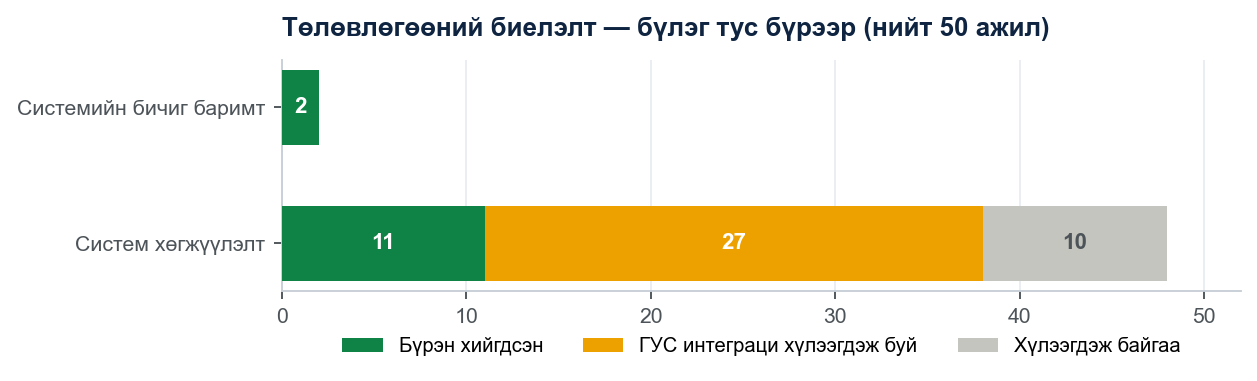
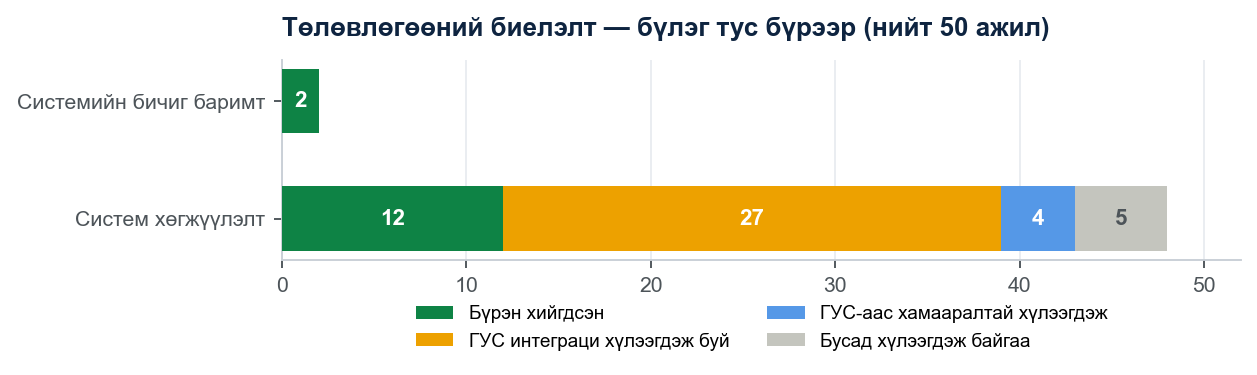
report update

diff --git a/public/reports/system-tailan.html b/public/reports/system-tailan.html
@@ -77,14 +77,15 @@
 <p class="tocline"><a href="#_toc132"><b>9. Чанар, тестийн хамралт</b></a></p>
 <p class="tocline"><a href="#_toc133"><b>10. Хөгжүүлэлтийн явцын үзүүлэлт</b></a></p>
 <p class="tocline"><a href="#_toc134"><b>11. Төлөвлөгөөний биелэлт</b></a></p>
-<p class="tocline"><a href="#_toc135">11.1 Бүрэн хийгдсэн ажлууд (13)</a></p>
+<p class="tocline"><a href="#_toc135">11.1 Бүрэн хийгдсэн ажлууд (14)</a></p>
 <p class="tocline"><a href="#_toc136">11.2 Тусгай бүлэг — ГУС-ийн холболтоор хийгдэх ажлууд (27)</a></p>
-<p class="tocline"><a href="#_toc137">11.3 Хүлээгдэж байгаа ажлууд (10)</a></p>
-<p class="tocline"><a href="#_toc138">11.4 Төлөвлөгөөт ажлын иж бүрдэлд ороогүй боловч хэрэгжсэн ажлууд</a></p>
-<p class="tocline"><a href="#_toc139"><b>12. Нэгдсэн дүгнэлт</b></a></p>
-<p class="tocline"><a href="#_toc140">12.1 Систем хийгдсэнээр гарсан үр дүн</a></p>
-<p class="tocline"><a href="#_toc141">12.2 Давуу талууд</a></p>
-<p class="tocline"><a href="#_toc142"><b>Хавсралт. Нэр томьёоны тайлбар</b></a></p>
+<p class="tocline"><a href="#_toc137">11.3 ГУС-ийн хөгжүүлэлтээс хамаарч хийгдэх боломжтой ажлууд (4)</a></p>
+<p class="tocline"><a href="#_toc138">11.4 Бусад хүлээгдэж байгаа ажлууд (5)</a></p>
+<p class="tocline"><a href="#_toc139">11.5 Төлөвлөгөөт ажлын иж бүрдэлд ороогүй боловч хэрэгжсэн ажлууд</a></p>
+<p class="tocline"><a href="#_toc140"><b>12. Нэгдсэн дүгнэлт</b></a></p>
+<p class="tocline"><a href="#_toc141">12.1 Систем хийгдсэнээр гарсан үр дүн</a></p>
+<p class="tocline"><a href="#_toc142">12.2 Давуу талууд</a></p>
+<p class="tocline"><a href="#_toc143"><b>Хавсралт. Нэр томьёоны тайлбар</b></a></p>
 <h2 id="_toc101">1. Ерөнхий тойм</h2>
 <p class="j">Систем нь дөрвөн үндсэн бүрэлдэхүүнээс тогтоно: хэрэглэгчийн харах вэб апп (frontend — Next.js 14), бизнесийн логикийг гүйцэтгэх сервер (backend — Go/Gin REST API), өгөгдөл хадгалах сан (PostgreSQL + газарзүйн PostGIS өргөтгөл) болон газрын зургийн үйлчилгээ (GeoServer). Энгийнээр хэлбэл: хэрэглэгч вэб хуудсаар ажиллаж, вэб хуудас нь серверээс мэдээлэл авч, сервер нь өгөгдлийн сангаас уншиж бичдэг гинжин холбоо юм. Гол тоон үзүүлэлтүүд:</p>
 <div class="tbl-scroll"><table><tr><th><b>Үзүүлэлт</b></th><th><b>Утга</b></th></tr><tr><td><b>REST API endpoint (үйлчилгээний цэг)</b></td><td>185</td></tr><tr><td><b>Өгөгдлийн сангийн хүснэгт (2 сан)</b></td><td>49</td></tr><tr><td><b>Хувилбарлагдсан migration (бүтцийн өөрчлөлт)</b></td><td>58</td></tr><tr><td><b>Frontend хуудас (route)</b></td><td>24</td></tr><tr><td><b>Нийт кодын мөр (Go + TS/TSX)</b></td><td>~55,400</td></tr><tr><td><b>Backend тест функц</b></td><td>220</td></tr></table></div>
@@ -285,11 +286,11 @@
 <h2 id="_toc134">11. Төлөвлөгөөний биелэлт</h2>
 <p class="j">Хөгжүүлэлтийн нарийвчилсан төлөвлөгөө (plan.xlsx, 2026.05–09)-ний бичиг баримт болон систем хөгжүүлэлтийн бүлгүүд нь задаргаа түвшний 50 ажлаас бүрдэнэ. Төлөв өнгөөр кодлогдсон: ногоон = бүрэн хийгдсэн; шар = хийгдсэн боловч Газрын удирдлагын системтэй (ГУС) холбогдох хөгжүүлэлт хүлээгдэж байгаа; будаагүй = хүлээгдэж байгаа.</p>
 <p class="j"><i>Тооллогын арга: бүлэг, дэд бүлгийн гарчиг мөрүүдийг ажлын тоонд оруулаагүй, зөвхөн задаргаа ажлуудыг тоолсон. «Лог файл үүсгэх» (2.4.4.6) ажлыг аудит логийн системийн хэрэгжилтээр хийгдсэнд тооцов.</i></p>
-<div class="tbl-scroll"><table><tr><th><b>Төлөв</b></th><th><b>Тоо</b></th><th><b>Хувь</b></th></tr><tr><td><b>Нийт төлөвлөгөөт ажил</b></td><td>50</td><td>100%</td></tr><tr><td><b>Бүрэн хийгдсэн</b></td><td>13</td><td>26%</td></tr><tr><td><b>Хийгдсэн — ГУС интеграци хүлээгдэж буй</b></td><td>27</td><td>54%</td></tr><tr><td><b>Хүлээгдэж байгаа</b></td><td>10</td><td>20%</td></tr></table></div>
+<div class="tbl-scroll"><table><tr><th><b>Төлөв</b></th><th><b>Тоо</b></th><th><b>Хувь</b></th></tr><tr><td><b>Нийт төлөвлөгөөт ажил</b></td><td>50</td><td>100%</td></tr><tr><td><b>Бүрэн хийгдсэн</b></td><td>14</td><td>28%</td></tr><tr><td><b>Хийгдсэн — ГУС интеграци хүлээгдэж буй</b></td><td>27</td><td>54%</td></tr><tr><td><b>ГУС-аас хамааралтай хүлээгдэж (дараа хийгдэх боломжтой)</b></td><td>4</td><td>8%</td></tr><tr><td><b>Бусад хүлээгдэж байгаа</b></td><td>5</td><td>10%</td></tr></table></div>
 <p style="text-align:center"><img class="shot" src="img/docx-12.png" alt=""></p>
 <p style="text-align:center"><i>График. Төлөвлөгөөний биелэлт — бүлэг, төлөв тус бүрээр</i></p>
-<p><b>Системийн талаас хэрэгжсэн: 40/50 ажил (80%).</b></p>
-<h3 id="_toc135">11.1 Бүрэн хийгдсэн ажлууд (13)</h3>
+<p><b>Системийн талаас хэрэгжсэн: 41/50 ажил (82%).</b></p>
+<h3 id="_toc135">11.1 Бүрэн хийгдсэн ажлууд (14)</h3>
 <ul>
 <li>Системийн бичиг баримт /архитектурын загвар/ ба техникийн тодорхойлолт (1.1, 1.2)</li>
 <li>Системийн template бэлдэх, Map server бэлдэх (2.1.1, 2.1.2)</li>
@@ -301,24 +302,28 @@
 <li>Нөхөх олговрын үнийн дүнгийн төлбөрийн гүйцэтгэл (2.4.4.5)</li>
 <li>Статистикийн хяналтын самбар (2.5.1), тайланг төрлөөр боловсруулах (2.5.2)</li>
 <li>Лог файл үүсгэх — аудит логийн системээр хэрэгжсэн (2.4.4.6)</li>
+<li>Газар чөлөөлсөн тухай акт үйлдэх — хэвлэх загварын (Эх хэвлэл) системээр хэрэгжсэн (2.4.4.4)</li>
 </ul>
 <h3 id="_toc136">11.2 Тусгай бүлэг — ГУС-ийн холболтоор хийгдэх ажлууд (27)</h3>
 <p class="j">Эдгээр ажлын системийн тал нь хийгдсэн бөгөөд ГУС-ээс мэдээлэл татах/солилцох холболт нээгдэхийг хүлээж байна. Ажил тус бүрд холбох мэдээллийг тодорхойлов:</p>
 <div class="tbl-scroll"><table><tr><th><b>Бүлэг</b></th><th><b>Ажил (дугаар)</b></th><th><b>Холбох мэдээлэл</b></th></tr><tr><td><b>А. Удирдлага,үндсэн бүртгэл</b></td><td>Хэрэглэгчийн бүртгэл, жагсаалт (2.2.1)</td><td>ГУС-ийн хэрэглэгчийн нэгдсэн бүртгэлээс нэр, албан тушаал, байгууллага, холбоо барих мэдээллийг татах</td></tr><tr><td>&nbsp;</td><td>Хэрэглэгчийн эрхийн бүртгэл (2.2.2)</td><td>Эрхийн түвшин, ролийн мэдээллийг татаж системийн эрхтэй уялдуулах</td></tr><tr><td>&nbsp;</td><td>Эрхийн тохиргоо (2.2.3)</td><td>Чиг үүргийн ангиллыг системийн 6 роль, зөвшөөрөлтэй харгалзуулах</td></tr><tr><td>&nbsp;</td><td>Ажилтны бүртгэл (2.3.1)</td><td>Албан хаагчийн мэдээлэл — хариуцагч оноох жагсаалтын эх сурвалж</td></tr><tr><td>&nbsp;</td><td>Ажилтны лавлахууд (2.3.2)</td><td>Албан тушаал, нэгж/хэлтсийн лавлахыг синхрончлох</td></tr><tr><td>&nbsp;</td><td>Хуулийн этгээдийн бүртгэл (2.3.3)</td><td>Регистр, нэр, хаяг — эзэмшигч, төлөөлөгчийг баталгаажуулах</td></tr><tr><td>&nbsp;</td><td>Үнэлгээний байгууллага (2.3.4)</td><td>Тусгай зөвшөөрөлтэй байгууллагын жагсаалт, лицензийн хугацаа</td></tr><tr><td><b>Б. Төлөвлөгөөнийдавхарга</b></td><td>Гэр хорооллын чөлөөлөлт (2.2.1.1)</td><td>Зөвшилцсөн давхаргаас ангиллын хил, талбай татаж чөлөөлөлт автоматаар үүсгэх</td></tr><tr><td>&nbsp;</td><td>Авто зам, шугам сүлжээ (2.2.1.2)</td><td>Мөн давхаргаас зам, трассын ангиллын хилийг татах</td></tr><tr><td>&nbsp;</td><td>Нийгмийн дэд бүтэц (2.2.1.3)</td><td>Сургууль, эмнэлэг зэрэг ангиллын хилийг татах</td></tr><tr><td><b>В. ГУС-ийнсистемүүд</b></td><td>ГЗБ, хот төлөвлөлтийн цахим (2.3.1)</td><td>Бүсчлэл, хориглолт-хязгаарлалт — талбарын өөрчлөлтийг ЕТ-тэй хянах</td></tr><tr><td>&nbsp;</td><td>Газрын кадастр (2.3.2)</td><td>Хил, эзэмшигч, эрхийн төрөл, гэрчилгээ — «Мэдээлэл дуудах» синхрончлолын эх сурвалж</td></tr><tr><td>&nbsp;</td><td>Газрын үнэлгээ (2.3.3)</td><td>Үнэлгээний бүс, суурь үнэ, дуудлагын итгэлцүүр — олговрын тооцооллын суурь</td></tr><tr><td>&nbsp;</td><td>Хот байгуулалтын кадастр (2.3.4)</td><td>Барилга байгууламжийн бүртгэл, хил, зориулалт</td></tr><tr><td>&nbsp;</td><td>Газрын мониторинг (2.3.5)</td><td>Газрын төлөв байдал, ашиглалтын хяналтын дүн</td></tr><tr><td><b>Г. Кадастрындавхцал</b></td><td>Зөрчлийн давхарга үүсгэх (2.4.1.1)</td><td>Кадастрын зургийг чөлөөлөлтийн хилтэй харьцуулж зөрчилтэй талбарыг зурагт харуулах</td></tr><tr><td>&nbsp;</td><td>Зөрчлийг системд холбох (2.4.1.2)</td><td>Зөрчил бүрийг нэгж талбарын дэлгэрэнгүйтэй холбох</td></tr><tr><td>&nbsp;</td><td>Давхцал шалгах (2.9.1)</td><td>Кадастрын API-аас хил татаж системийн PostGIS тооцоололтой тулгах</td></tr><tr><td><b>Д. Эрх,захирамж</b></td><td>Чиг үүргээр эрх тохируулах (2.4.3.1)</td><td>ГУС-ийн чиг үүргээс системийн роль/зөвшөөрөлд автоматаар буулгах</td></tr><tr><td>&nbsp;</td><td>Захирамжийн төсөл (2.4.4.3)</td><td>Талбар, эзэмшигч, олговрын дүнг загварт бөглөж захирамжийн бүртгэлтэй уях</td></tr><tr><td><b>Е. Дундынмэдээллийн сан</b></td><td>УБЕГ (2.8.1)</td><td>Регистрээр үл хөдлөхийн гэрчилгээ, өмчлөл, барьцааны лавлагаа</td></tr><tr><td>&nbsp;</td><td>Татварын ерөнхий газар (2.8.2)</td><td>Татварын өр, төлөлтийн лавлагаа — олговор олгохын өмнөх шалгалт</td></tr><tr><td>&nbsp;</td><td>ШШГЕГ (2.8.3)</td><td>Шүүхийн маргаан, эрх түдгэлзүүлэлтийн лавлагаа</td></tr><tr><td>&nbsp;</td><td>Үнийн мэдээний сан (2.8.4)</td><td>Батлагдсан олговруудаас үнийн сан бүрдүүлж ГУС-т лавлагаа болгон өгөх</td></tr><tr><td>&nbsp;</td><td>E-Mongolia (2.8.5)</td><td>Иргэнд мэдэгдэл хүргүүлж, НЭЗ судалгааны хариуг хүлээн авах</td></tr><tr><td>&nbsp;</td><td>Динамик давхарга (2.8.6)</td><td>ГУС-ийн каталогоос давхаргыг кодгүйгээр зурагт нэмэх</td></tr><tr><td><b>Ж. Бусад</b></td><td>Бусад системд өгөгдөл өгөх (2.9.2)</td><td>Чөлөөлөлт, талбар, олговрын мэдээллийг REST/WFS-ээр гаргах</td></tr></table></div>
-<h3 id="_toc137">11.3 Хүлээгдэж байгаа ажлууд (10)</h3>
+<h3 id="_toc137">11.3 ГУС-ийн хөгжүүлэлтээс хамаарч хийгдэх боломжтой ажлууд (4)</h3>
+<p class="j">Эдгээр ажлыг цахимаар хэрэгжүүлэхэд иргэдэд зориулсан цахим хүргэлтийн суваг (E-Mongolia, ГУС-ийн 2.8.5 ажил) шаардлагатай тул ГУС-ийн холболт нээгдсэний дараа хэрэгжих боломжтой:</p>
 <ul>
-<li>Зураг төслийн түүхэн өөрчлөлтийг харуулах (2.2.2.2)</li>
 <li>НЭЗ судалгааг цахимаар авч тоон мэдээлэл үүсгэх (2.4.2.1)</li>
 <li>Цахим хэлбэрээр мэдэгдэх хуудас хүргүүлэх (2.4.2.2)</li>
 <li>Албан бичиг хүргүүлэх (2.4.2.3)</li>
-<li>Тооцооллын журам, аргачлал, стандарт, үнийн мэдээний бүртгэл (2.4.3.2)</li>
-<li>Газар чөлөөлөх гэрээг цахим системээр хэвлэх (2.4.4.2)</li>
-<li>Газар чөлөөлсөн тухай акт үйлдэх (2.4.4.4)</li>
-<li>Агаар сансрын зурган мэдээллийг тогтмол шинэчлэх (2.6.1)</li>
-<li>Дроноор авсан мэдээллийг мэдээллийн санд оруулах (2.6.2)</li>
 <li>2010–2025 оны чөлөөлөгдсөн талбарын мэдээллийг нөхөж оруулах (2.7.1)</li>
 </ul>
-<h3 id="_toc138">11.4 Төлөвлөгөөт ажлын иж бүрдэлд ороогүй боловч хэрэгжсэн ажлууд</h3>
+<h3 id="_toc138">11.4 Бусад хүлээгдэж байгаа ажлууд (5)</h3>
+<ul>
+<li>Зураг төслийн түүхэн өөрчлөлтийг харуулах (2.2.2.2)</li>
+<li>Тооцооллын журам, аргачлал, стандарт, үнийн мэдээний бүртгэл (2.4.3.2)</li>
+<li>Газар чөлөөлөх гэрээг цахим системээр хэвлэх (2.4.4.2)</li>
+<li>Агаар сансрын зурган мэдээллийг тогтмол шинэчлэх (2.6.1)</li>
+<li>Дроноор авсан мэдээллийг мэдээллийн санд оруулах (2.6.2)</li>
+</ul>
+<h3 id="_toc139">11.5 Төлөвлөгөөт ажлын иж бүрдэлд ороогүй боловч хэрэгжсэн ажлууд</h3>
 <ul>
 <li><b>Excel-ээс үнэлгээ импортлох</b> — хөтөч дотор задлан шинжилж, SHA-256 хэшээр давхардлаас хамгаалдаг</li>
 <li><b>Мэргэжлийн байгууллагын тусгаарлагдсан портал</b> — гадны байгууллага зөвхөн өөрт оноогдсон объект дээр ажиллах 43 endpoint орчин</li>
@@ -326,9 +331,9 @@
 <li><b>Аюулгүй байдлын өргөтгөлүүд</b> — token хүчингүйжүүлэлт, session epoch, объект түвшний 4 давхар хамгаалалт</li>
 <li><b>Бодит цагийн мэдэгдлийн систем</b> — төлөв өөрчлөгдөх бүрд холбогдох хэрэглэгчдэд SSE-ээр шууд мэдэгддэг (7.12)</li>
 </ul>
-<div class="tbl-scroll"><table><tr><th><b>ҮР ДҮН</b></th><th><b>ДАВУУ ТАЛ</b></th><th><b>НЭМЭГДЭХ БОЛОМЖ</b></th></tr><tr><td>50 ажлын 40 нь (80%) системийн талаас хэрэгжсэн; төлөвлөгөөнөөс гадуур 5 томоохон боломж нэмэгдсэн (аудит лог нь 2.4.4.6-ийн хэрэгжилт)</td><td>Үлдэгдлийн дийлэнх нь гадаад хамааралтай — системийн суурь бэлэн</td><td>ГУС-ийн API нээгдмэгц 27 ажил богино хугацаанд хаагдана; үлдэгдэл 11 ажлыг дараагийн шатанд төлөвлөх</td></tr></table></div>
-<h2 id="_toc139">12. Нэгдсэн дүгнэлт</h2>
-<h3 id="_toc140">12.1 Систем хийгдсэнээр гарсан үр дүн</h3>
+<div class="tbl-scroll"><table><tr><th><b>ҮР ДҮН</b></th><th><b>ДАВУУ ТАЛ</b></th><th><b>НЭМЭГДЭХ БОЛОМЖ</b></th></tr><tr><td>50 ажлын 41 нь (82%) системийн талаас хэрэгжсэн; төлөвлөгөөнөөс гадуур 5 томоохон боломж нэмэгдсэн (аудит лог нь 2.4.4.6, акт нь 2.4.4.4-ийн хэрэгжилт)</td><td>Үлдэгдлийн 4 нь ГУС-ийн E-Mongolia холболтоос хамааралтай; бусад 5 нь бие даасан</td><td>ГУС-ийн API нээгдмэгц 27+4 ажил богино хугацаанд хаагдана; бие даасан 5 ажлыг дараагийн шатанд төлөвлөх</td></tr></table></div>
+<h2 id="_toc140">12. Нэгдсэн дүгнэлт</h2>
+<h3 id="_toc141">12.1 Систем хийгдсэнээр гарсан үр дүн</h3>
 <ul>
 <li>Бүх үе шат цаасан бус, нэгдсэн цахим урсгалд шилжсэн</li>
 <li>3 бие даасан үнэлгээ зэрэгцээ явагдаж, workflow-оор баталгааждаг</li>
@@ -336,7 +341,7 @@
 <li>Гадны байгууллагууд тусгаарлагдсан порталтай</li>
 <li>9 төрлийн албан баримт, Excel тайлан автоматаар үүсдэг</li>
 </ul>
-<h3 id="_toc141">12.2 Давуу талууд</h3>
+<h3 id="_toc142">12.2 Давуу талууд</h3>
 <ul>
 <li><b>Цэвэр давхаргажилт</b> — өргөтгөлд тэсвэртэй, тестлэгдэхүйц бүтэц</li>
 <li><b>Гүн хамгаалалт</b> — 4 давхар эрхийн шалгалт</li>
@@ -344,7 +349,7 @@
 <li><b>Бүрэн аудитын мөр</b> — өөрчлөлт бүр түүхтэй</li>
 <li><b>Нээлттэй эхийн стек</b> — лицензийн зардалгүй</li>
 </ul>
-<h2 id="_toc142">Хавсралт. Нэр томьёоны тайлбар</h2>
+<h2 id="_toc143">Хавсралт. Нэр томьёоны тайлбар</h2>
 <p>Тайланд ашигласан мэргэжлийн нэр томьёоны энгийн тайлбар:</p>
 <div class="tbl-scroll"><table><tr><th><b>Нэр томьёо</b></th><th><b>Энгийн тайлбар</b></th></tr><tr><td><b>Frontend / Backend</b></td><td>Frontend — хэрэглэгчийн хөтөч дээр харагдах вэб хуудаснууд; Backend — ард нь ажиллаж, өгөгдөл боловсруулж хадгалдаг сервер програм</td></tr><tr><td><b>API, endpoint</b></td><td>Програмууд хоорондоо мэдээлэл солилцох гэрээт «цонх». Endpoint нь тухайн нэг үйлчилгээний хаяг (жишээ: талбарын жагсаалт авах хаяг)</td></tr><tr><td><b>REST</b></td><td>API зохион байгуулах түгээмэл стандарт — унших/нэмэх/засах/устгах үйлдлүүд тус тусын хаягтай байдаг</td></tr><tr><td><b>Өгөгдлийн сан (PostgreSQL)</b></td><td>Бүх мэдээллийг хүснэгт хэлбэрээр найдвартай хадгалдаг сан</td></tr><tr><td><b>PostGIS</b></td><td>Өгөгдлийн санд газарзүйн хэлбэр (талбарын хил г.м.) хадгалж, талбай, давхцал зэргийг тооцох боломж олгодог өргөтгөл</td></tr><tr><td><b>GeoServer, WMS/WFS</b></td><td>Газрын зургийн давхаргуудыг вэбээр түгээдэг сервер; WMS — зураг хэлбэрээр, WFS — өгөгдөл хэлбэрээр өгдөг стандартууд</td></tr><tr><td><b>Migration</b></td><td>Өгөгдлийн сангийн бүтцийн өөрчлөлт бүрийг дугаарлаж хадгалсан «алхам» — шинэ орчинд сан ямар ч үед мөр дараалан ижил бүтэцтэй босдог</td></tr><tr><td><b>JWT, token</b></td><td>Нэвтэрсэн хэрэглэгчийг таниулах цахим «үнэмлэх» — хүсэлт бүрд дагалдаж, хугацаа дуусахад шинэчлэгдэнэ</td></tr><tr><td><b>bcrypt, SHA-256</b></td><td>Нууц үг болон файлыг математик аргаар «хурууны хээ» болгох аргууд — нууц үг ил хадгалагдахгүй, файлын давхардал илэрдэг</td></tr><tr><td><b>RBAC, permission</b></td><td>Ролид суурилсан эрхийн удирдлага — хэрэглэгч бүр ролийнхоо хүрээнд л үйлдэл хийж чадна (жишээ: land:update = чөлөөлөлт засах эрх)</td></tr><tr><td><b>Workflow</b></td><td>Ажлын урсгал — аль төлөвөөс аль төлөв рүү, ямар нөхцөлтэйгөөр шилжиж болохын урьдчилан тогтоосон дүрэм</td></tr><tr><td><b>SSE (Server-Sent Events)</b></td><td>Сервер хөтөч рүү мэдээллийг хүсэлт хүлээлгүйгээр өөрөө «түлхэж» илгээдэг холболт — мэдэгдэл бодит цагт ирэх үндэс</td></tr><tr><td><b>Аудит лог</b></td><td>Хэн, хэзээ, хаанаас (IP), юу өөрчилснийг бүртгэдэг хөндөгдөшгүй тэмдэглэл — хяналт шалгалтын эх сурвалж</td></tr><tr><td><b>Shapefile, WKT</b></td><td>Газарзүйн хилийн мэдээллийг хадгалах түгээмэл файлын форматууд</td></tr><tr><td><b>ERD</b></td><td>Өгөгдлийн сангийн хүснэгтүүд ба тэдгээрийн холбоог харуулсан бүтцийн зураг</td></tr><tr><td><b>Docker</b></td><td>Програмыг орчноос нь хамааралгүй, нэг командаар асаадаг «сав» технологи</td></tr><tr><td><b>Clean Architecture</b></td><td>Кодыг үе давхаргаар (хүлээн авах – боловсруулах – хадгалах) тусгаарлан зохион байгуулах арга — засвар, өргөтгөлд тэсвэртэй</td></tr><tr><td><b>Swagger</b></td><td>API-ийн бүх үйлчилгээний цэгийг жагсааж, туршиж үзэх боломжтой автомат баримтжуулалт</td></tr><tr><td><b>CQL шүүлт</b></td><td>Газрын зургийн давхаргаас нөхцөлөөр (он, чөлөөлөлт г.м.) шүүж харуулах хэллэг</td></tr><tr><td><b>Cache (кэш)</b></td><td>Олон дахин уншигддаг мэдээллийг түр санахад хадгалж хурдасгах арга</td></tr></table></div>
 <p class="j"><i>Энэхүү тайланг government-frontend болон government repo-гийн эх кодын шинжилгээнд үндэслэн үүсгэв. Тоон үзүүлэлтүүд нь эх кодоос шууд тоологдсон болно.</i></p>

diff --git a/public/reports/tovch-tailan.html b/public/reports/tovch-tailan.html
@@ -395,25 +395,27 @@
   <div class="ch-head"><span class="ch-num">12</span><h2>Төлөвлөгөөний биелэлт</h2></div>
   <p class="sub">Хөгжүүлэлтийн нарийвчилсан төлөвлөгөөний задаргаа түвшний 50 ажил (гарчиг мөрүүд тооцоогүй)</p>
   <div class="big80">
-    <div class="n">80%</div>
-    <p><b style="color:var(--ink)">50 ажлын 40 нь системийн талаас хэрэгжсэн.</b><br>
-    13 бүрэн дууссан + 27 нь системд бэлэн боловч Газрын удирдлагын системийн (ГУС) холболт нээгдэхийг хүлээж байна.</p>
+    <div class="n">82%</div>
+    <p><b style="color:var(--ink)">50 ажлын 41 нь системийн талаас хэрэгжсэн.</b><br>
+    14 бүрэн дууссан + 27 нь системд бэлэн боловч Газрын удирдлагын системийн (ГУС) холболт нээгдэхийг хүлээж байна.</p>
   </div>
-  <div class="stats">
-    <div class="stat" style="border-top-color:#3fa53f"><div class="v" style="color:#4ade80">13</div><div class="l">Бүрэн хийгдсэн (26%)</div></div>
+  <div class="stats s4">
+    <div class="stat" style="border-top-color:#3fa53f"><div class="v" style="color:#4ade80">14</div><div class="l">Бүрэн хийгдсэн (28%)</div></div>
     <div class="stat" style="border-top-color:#eda100"><div class="v" style="color:#eda100">27</div><div class="l">ГУС холболт хүлээж буй (54%)</div></div>
-    <div class="stat" style="border-top-color:#6b6c66"><div class="v" style="color:#a9aaa3">10</div><div class="l">Хүлээгдэж байгаа (20%)</div></div>
+    <div class="stat" style="border-top-color:#5598e7"><div class="v" style="color:#5598e7">4</div><div class="l">ГУС-аас хамааралтай хүлээгдэж (8%)</div></div>
+    <div class="stat" style="border-top-color:#6b6c66"><div class="v" style="color:#a9aaa3">5</div><div class="l">Бусад хүлээгдэж байгаа (10%)</div></div>
   </div>
   <div class="card chart">
-    <div class="legend"><span><span class="sw" style="background:#3fa53f"></span>Бүрэн</span><span><span class="sw" style="background:#eda100"></span>ГУС хүлээгдэж</span><span><span class="sw" style="background:#6b6c66"></span>Хүлээгдэж</span></div>
+    <div class="legend"><span><span class="sw" style="background:#3fa53f"></span>Бүрэн</span><span><span class="sw" style="background:#eda100"></span>ГУС хүлээгдэж</span><span><span class="sw" style="background:#5598e7"></span>ГУС хамааралтай хүлээгдэж</span><span><span class="sw" style="background:#6b6c66"></span>Бусад хүлээгдэж</span></div>
     <svg viewBox="0 0 520 64">
       <text x="126" y="18" text-anchor="end" font-size="9.5" fill="#c3c2b7">Бичиг баримт</text>
       <rect x="134" y="7" width="15" height="14" rx="3" fill="#3fa53f"/><text x="156" y="18" font-size="9" font-weight="700" fill="#f2f2ef">2 / 2</text>
       <text x="126" y="48" text-anchor="end" font-size="9.5" fill="#c3c2b7">Систем хөгжүүлэлт</text>
-      <rect x="134" y="37" width="80" height="14" rx="3" fill="#3fa53f"/><text x="174" y="48" text-anchor="middle" font-size="9" font-weight="700" fill="#fff">11</text>
-      <rect x="216" y="37" width="196" height="14" rx="3" fill="#eda100"/><text x="314" y="48" text-anchor="middle" font-size="9" font-weight="700" fill="#1a1b1a">27</text>
-      <rect x="414" y="37" width="72" height="14" rx="3" fill="#6b6c66"/><text x="450" y="48" text-anchor="middle" font-size="9" font-weight="700" fill="#f2f2ef">10</text>
-      <text x="492" y="48" font-size="9.5" font-weight="700" fill="#f2f2ef">48</text>
+      <rect x="134" y="37" width="87" height="14" rx="3" fill="#3fa53f"/><text x="178" y="48" text-anchor="middle" font-size="9" font-weight="700" fill="#fff">12</text>
+      <rect x="223" y="37" width="196" height="14" rx="3" fill="#eda100"/><text x="321" y="48" text-anchor="middle" font-size="9" font-weight="700" fill="#1a1b1a">27</text>
+      <rect x="421" y="37" width="29" height="14" rx="3" fill="#5598e7"/><text x="436" y="48" text-anchor="middle" font-size="9" font-weight="700" fill="#fff">4</text>
+      <rect x="452" y="37" width="36" height="14" rx="3" fill="#6b6c66"/><text x="470" y="48" text-anchor="middle" font-size="9" font-weight="700" fill="#f2f2ef">5</text>
+      <text x="500" y="48" font-size="9.5" font-weight="700" fill="#f2f2ef">48</text>
     </svg>
   </div>
 
@@ -432,12 +434,15 @@
   мэдээлэл өгөх «цонх» нээгдэхийг хүлээж байна. Холболт нээгдмэгц богино хугацаанд ашиглалтад орно.</div>
 
   <h2 style="font-size:16px;margin:20px 0 4px">12.2 Хүлээгдэж буй ба нэмэлт хийгдсэн</h2>
-  <div class="cols2">
-    <div class="card" style="border-top:3px solid var(--gray)"><b class="ttl" style="color:#a9aaa3">Хүлээгдэж байгаа 10 ажил</b>
-      <ul class="t" style="font-size:13px"><li>Зураг төслийн түүхэн өөрчлөлт харах</li><li>НЭЗ судалгааг цахимаар авах</li><li>Мэдэгдэх хуудас, албан бичиг цахимаар хүргүүлэх</li><li>Тооцооллын журам, аргачлалын бүртгэл</li><li>Гэрээ хэвлэх · Чөлөөлсөн акт үйлдэх</li><li>Агаар сансрын зураг · дроны мэдээлэл</li><li>2010–2025 оны түүхэн өгөгдөл нөхөж оруулах</li></ul></div>
-    <div class="card" style="border-top:3px solid var(--green)"><b class="ttl" style="color:#4ade80">Төлөвлөгөөнөөс гадуур хийгдсэн 6 ажил</b>
+  <div class="cols3">
+    <div class="card" style="border-top:3px solid var(--blue)"><b class="ttl" style="color:var(--blue)">ГУС-аас хамааралтай — дараа хийгдэх боломжтой 4 ажил</b>
+      <ul class="t" style="font-size:13px"><li>НЭЗ судалгааг цахимаар авах (2.4.2.1)</li><li>Мэдэгдэх хуудас цахимаар хүргүүлэх (2.4.2.2)</li><li>Албан бичиг хүргүүлэх (2.4.2.3)</li><li>2010–2025 оны түүхэн өгөгдөл нөхөж оруулах (2.7.1)</li></ul></div>
+    <div class="card" style="border-top:3px solid var(--gray)"><b class="ttl" style="color:#a9aaa3">Бусад хүлээгдэж байгаа 5 ажил</b>
+      <ul class="t" style="font-size:13px"><li>Зураг төслийн түүхэн өөрчлөлт харах (2.2.2.2)</li><li>Тооцооллын журам, аргачлалын бүртгэл (2.4.3.2)</li><li>Гэрээг цахим системээр хэвлэх (2.4.4.2)</li><li>Агаар сансрын зураг шинэчлэх (2.6.1)</li><li>Дроны мэдээлэл (2.6.2)</li></ul></div>
+    <div class="card" style="border-top:3px solid var(--green)"><b class="ttl" style="color:#4ade80">Төлөвлөгөөнөөс гадуур хийгдсэн 5 ажил</b>
       <ul class="t" style="font-size:13px"><li><b>Excel-ээс үнэлгээ импортлох</b> — давхардлын хамгаалалттай</li><li><b>Гадны байгууллагын портал</b> — 43 суваг</li><li><b>Бүрэн түүхжүүлэлт</b></li><li><b>Аюулгүй байдлын өргөтгөлүүд</b></li><li><b>Бодит цагийн мэдэгдэл</b></li></ul></div>
   </div>
+  <div class="note">«Газар чөлөөлсөн тухай акт үйлдэх» (2.4.4.4) ажил Эх хэвлэлийн 11 загварын нэг («Чөлөөлсөн газрыг хүлээлцсэн акт») болж хэрэгжсэн тул одоо <b>бүрэн хийгдсэн</b> ажилд шилжсэн.</div>
 </section>
 
 <!-- 13-14 -->